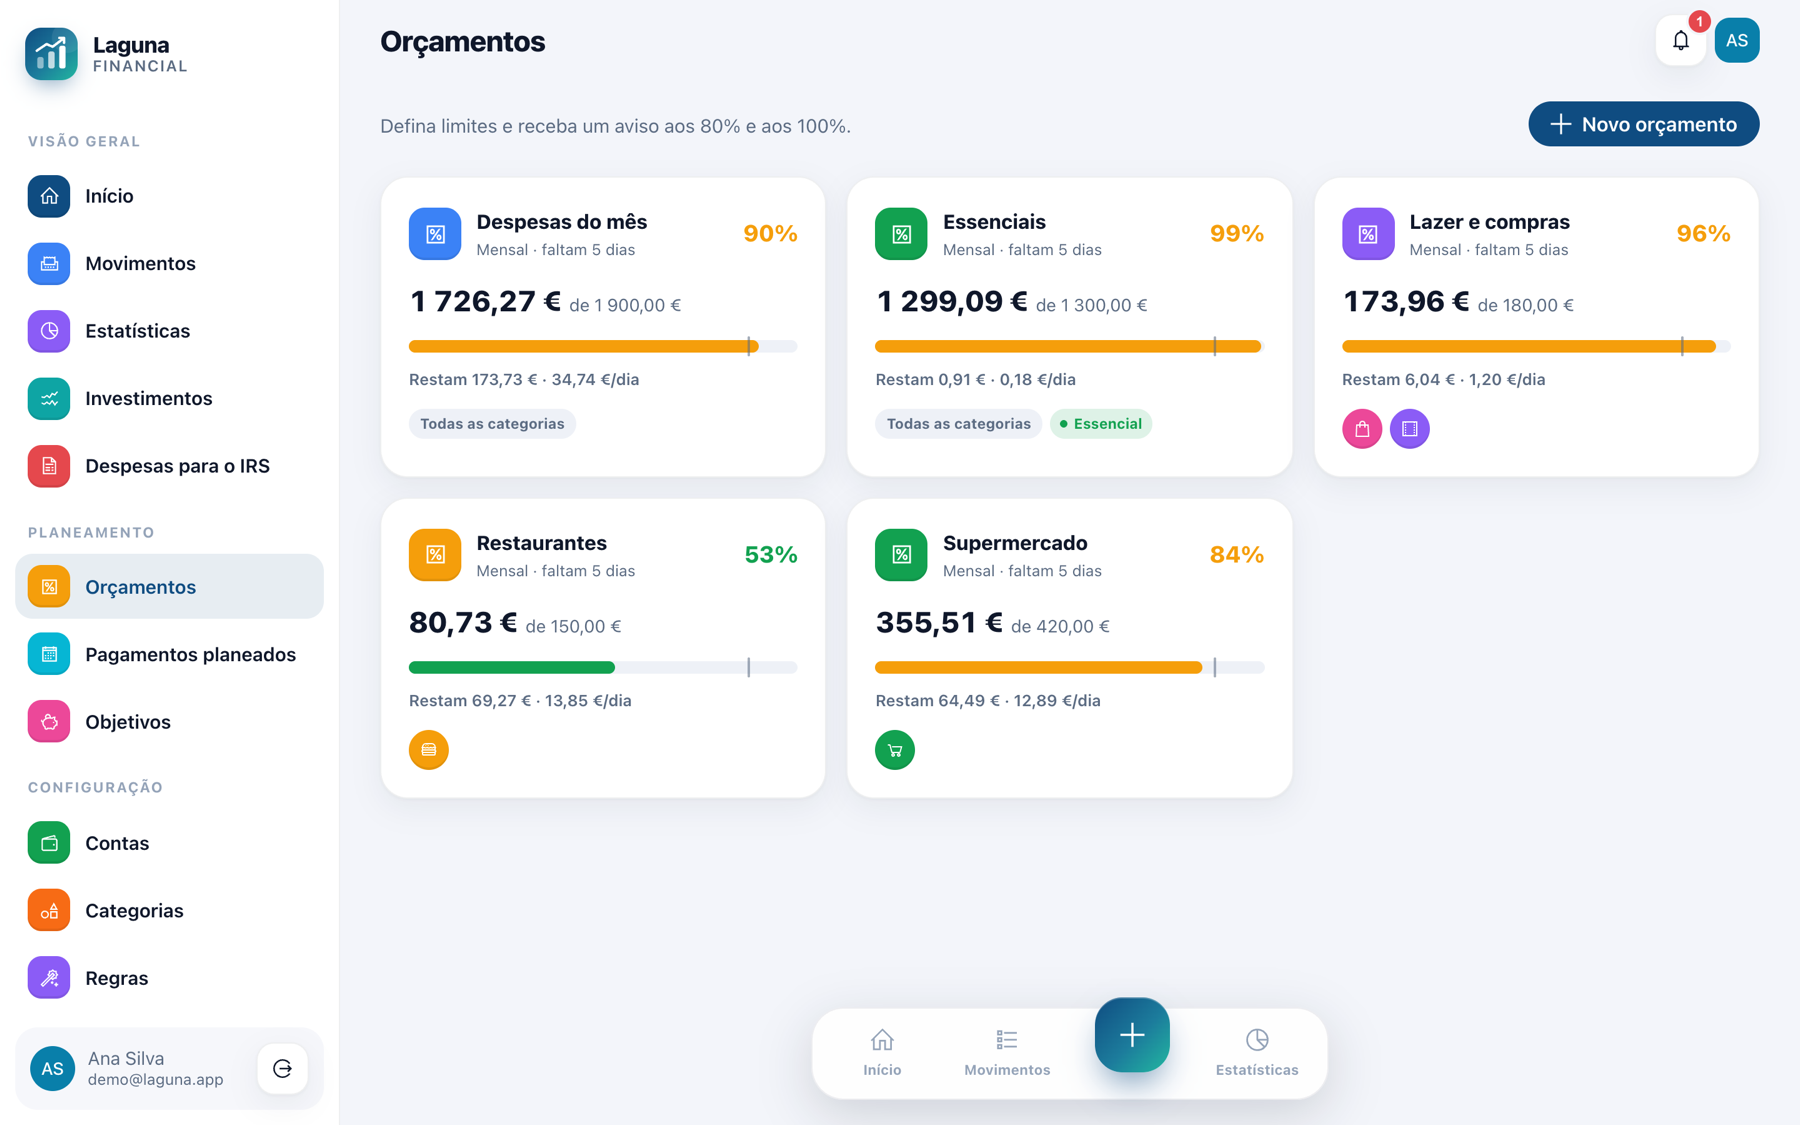
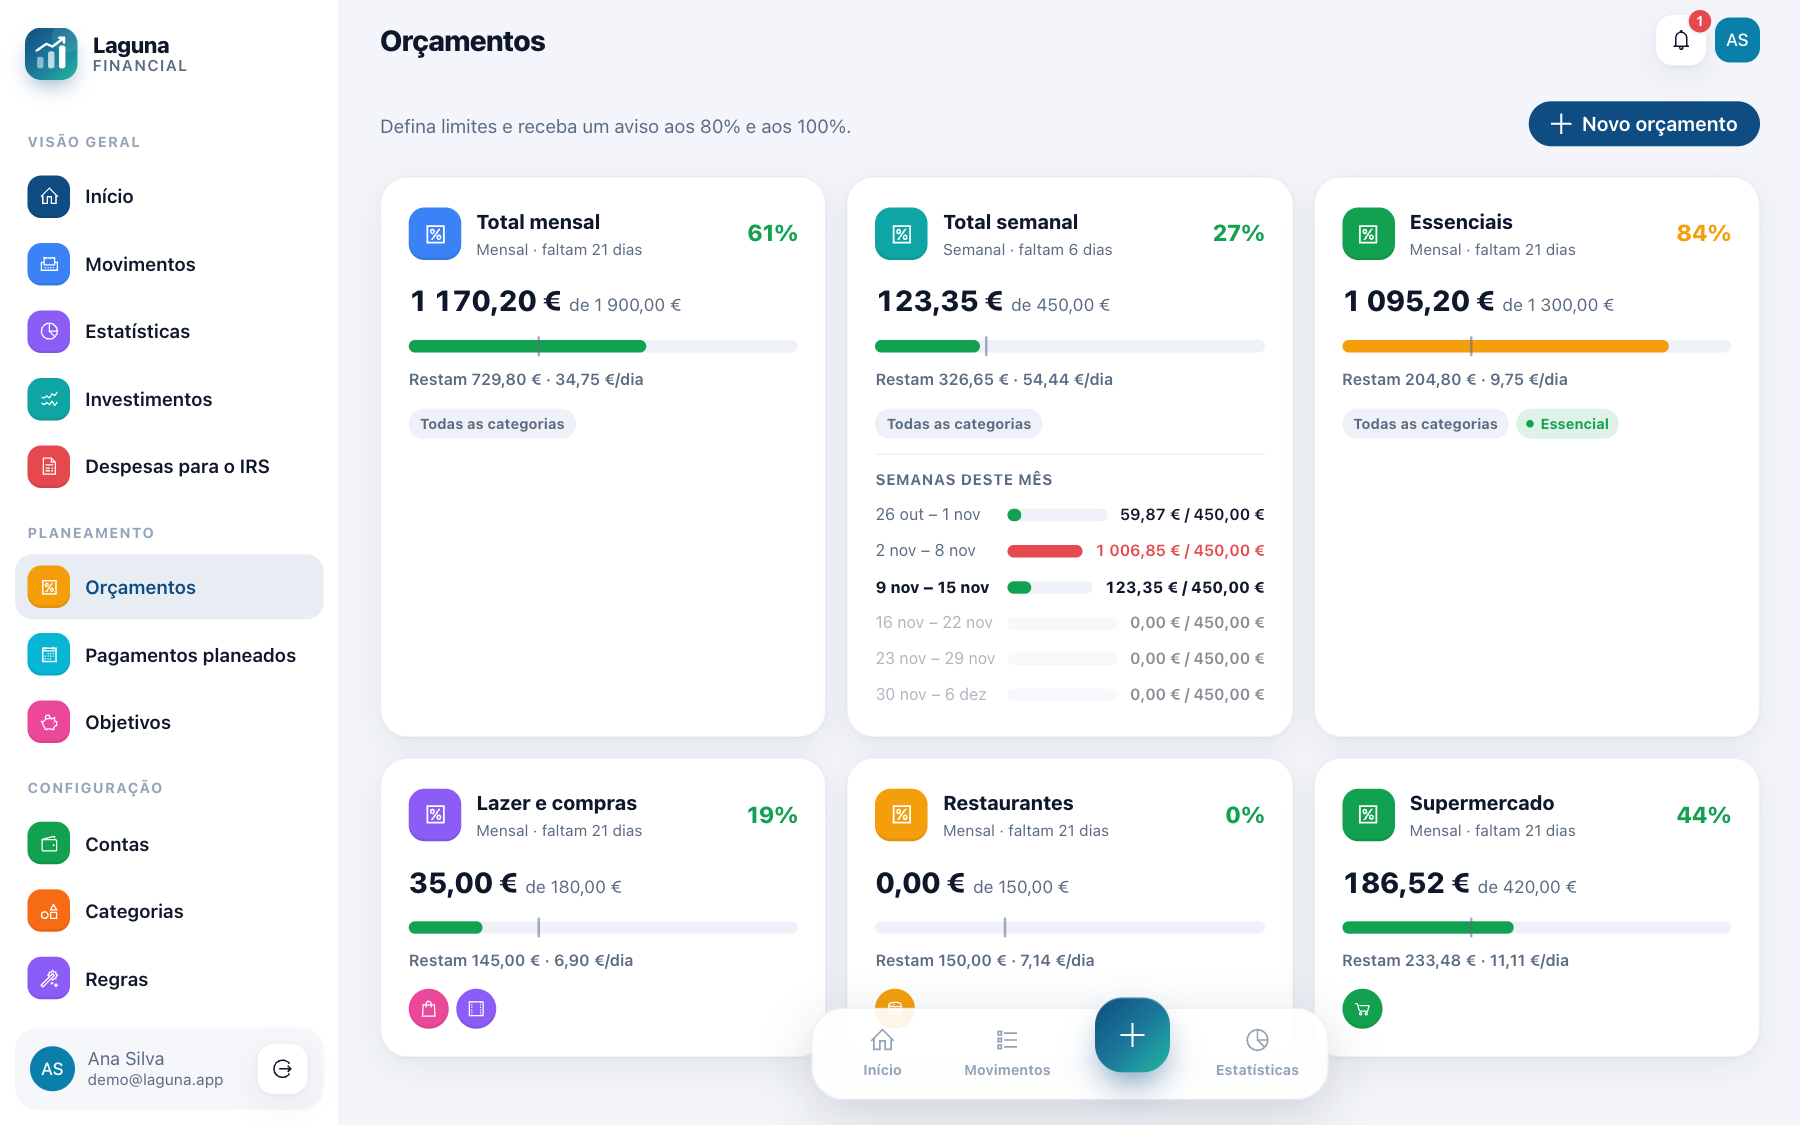
README da 2.5.0: orçamentos fixos (total mensal e total semanal)

diff --git a/README.md b/README.md
@@ -13,7 +13,7 @@
 - **Acertar o saldo com o do banco** — escreva o saldo que o banco mostra e a diferença entra como um acerto, que não conta como gasto nem como ganho.
 - **Importar extratos do banco** — o ficheiro CSV que o site ou a app do banco exporta. As colunas são reconhecidas sozinhas e importar o mesmo extrato duas vezes não repete movimentos.
 - **Regras de categorização** — "descrição contém CONTINENTE → Supermercado": os movimentos importados já entram na categoria certa.
-- **Orçamentos** — semanais, mensais ou anuais, com aviso aos 80 % e aos 100 %.
+- **Orçamentos** — um total mensal e um total semanal para tudo o que gasta, sempre à vista, com cada semana do mês de segunda a domingo; e os que quiser por categoria ou etiqueta, semanais, mensais ou anuais. Aviso aos 80 % e aos 100 %.
 - **Pagamentos planeados e objetivos** — renda, ginásio, salário, com lembrete; quanto poupar por mês para chegar a um objetivo a tempo.
 - **Estatísticas** — fluxo de caixa, despesas e receitas por categoria e por etiqueta, evolução do saldo, comparação com o período anterior.
 - **Despesas para o IRS** — quanto gastou por ano em saúde, educação, habitação, IVA por exigência de fatura…, pela categoria de cada despesa, para conferir o e-fatura e classificar as faturas pendentes.
@@ -26,7 +26,7 @@
 | | |
 |---|---|
 | ![Movimentos do mês agrupados por dia](capturas/02-movimentos.png) | ![Estatísticas do mês: receitas, despesas, saldo e fluxo de caixa](capturas/03-estatisticas.png) |
-| ![Orçamentos com o progresso do mês](capturas/04-orcamentos.png) | ![Carteira de investimentos a preço de custo](capturas/05-investimentos.png) |
+| ![Orçamentos: total mensal, total semanal com as semanas do mês e orçamentos por categoria](capturas/04-orcamentos.png) | ![Carteira de investimentos a preço de custo](capturas/05-investimentos.png) |
 | ![Regras de categorização automática](capturas/06-regras.png) | ![Ecrã inicial no tema escuro](capturas/07-inicio-escuro.png) |
 | ![Recibos anexados a uma despesa](capturas/08-recibos.png) | ![Despesas para o IRS por tipo de dedução](capturas/09-irs.png) |
 
